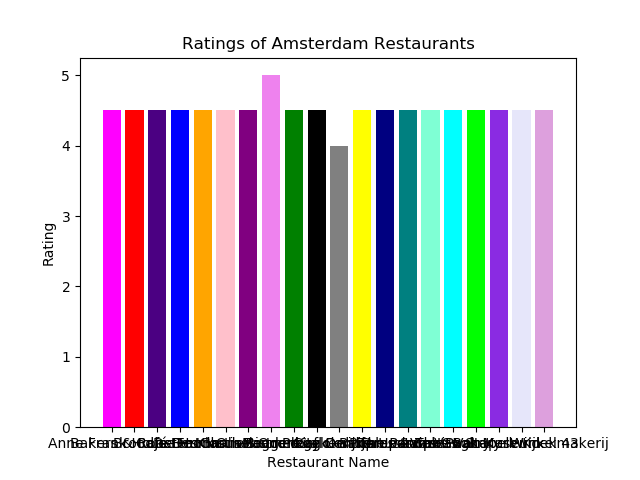
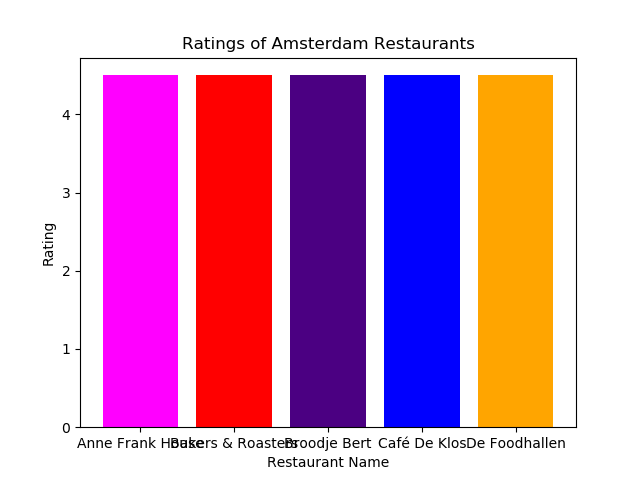
added calculations

diff --git a/finalproject.py b/finalproject.py
@@ -25,18 +25,20 @@ def get_data(database):
   conn.commit()
 
   # currency Data
-  cur.execute('CREATE TABLE IF NOT EXISTS Currency (base TEXT, date TEXT, rates INTEGER)')
+  cur.execute('CREATE TABLE IF NOT EXISTS Currency (date TEXT, USD INTEGER, EUR INTEGER)')
   cur.execute('SELECT * FROM Currency')
   data = cur.fetchall()
-  r2 = requests.get('http://data.fixer.io/api/latest?access_key=b771d2bacf30d6e399a7a45e4693bdfa&symbols=USD,EUR,AUD,CAD,MXN')
+  date = '2000-01-01'
+  url = 'http://data.fixer.io/api/{}?access_key=b771d2bacf30d6e399a7a45e4693bdfa&symbols=USD,EUR'.format(date)
+  r2 = requests.get(url)
   print(r2.json())
-  for x in r2.json()['rates'].items():
-    print(x)
-    base = x['base'] #have to change this stuff yolo
-    date = x['date']
-    rates = x['rates'][0]
-    cur.execute('INSERT INTO Events (base, date, rates) VALUES (?, ?, ?)', (base, date, rates))
-  conn.commit()
+  #for x in r2.json():
+    #date = x[4]
+    #for y in x['rates']:
+      #usd = y[0]
+      #eur = x[5][1]
+    #cur.execute('INSERT INTO Events (date, USD, EUR) VALUES (?, ?, ?)', (date, usd, eur))
+  #conn.commit()
 
   # Playlist Data
   cur.execute('CREATE TABLE IF NOT EXISTS Playlist (artistName TEXT, trackName TEXT, trackTimeMillis INT)')
@@ -103,7 +105,7 @@ def get_data(database):
       data[x] = ratings_list[count]
     count += 1 
 
-  plt.bar(name_list, ratings_list, align='center', color = ['magenta', 'red', 'indigo', 'blue', 'orange', 'pink', 'purple', 'violet', 'green', 'black', 'gray', 'yellow', 'navy', 'teal', 'aquamarine', 'cyan', 'lime', 'blueviolet', 'lavender', 'plum'])
+  plt.bar(name_list[0:5], ratings_list[0:5], align='center', color = ['magenta', 'red', 'indigo', 'blue', 'orange', 'pink', 'purple', 'violet', 'green', 'black', 'gray', 'yellow', 'navy', 'teal', 'aquamarine', 'cyan', 'lime', 'blueviolet', 'lavender', 'plum'])
   plt.ylabel('Rating')
   plt.xlabel('Restaurant Name')
   plt.title('Ratings of Amsterdam Restaurants')
@@ -129,7 +131,7 @@ def get_data(database):
       data[x] = times_list[count2]
     count2 += 1 
 
-  plt.bar(song_list, times_list, align='center', color = ['magenta', 'red', 'indigo', 'blue', 'orange', 'pink', 'purple', 'violet', 'green', 'black', 'gray', 'yellow', 'navy', 'teal', 'aquamarine', 'cyan', 'lime', 'blueviolet', 'lavender', 'plum'])
+  plt.bar(song_list[0:5], times_list[0:5], align='center', color = ['magenta', 'red', 'indigo', 'blue', 'orange', 'pink', 'purple', 'violet', 'green', 'black', 'gray', 'yellow', 'navy', 'teal', 'aquamarine', 'cyan', 'lime', 'blueviolet', 'lavender', 'plum'])
   plt.ylabel('Time')
   plt.xlabel('Song Name')
   plt.title('Length of Songs')
